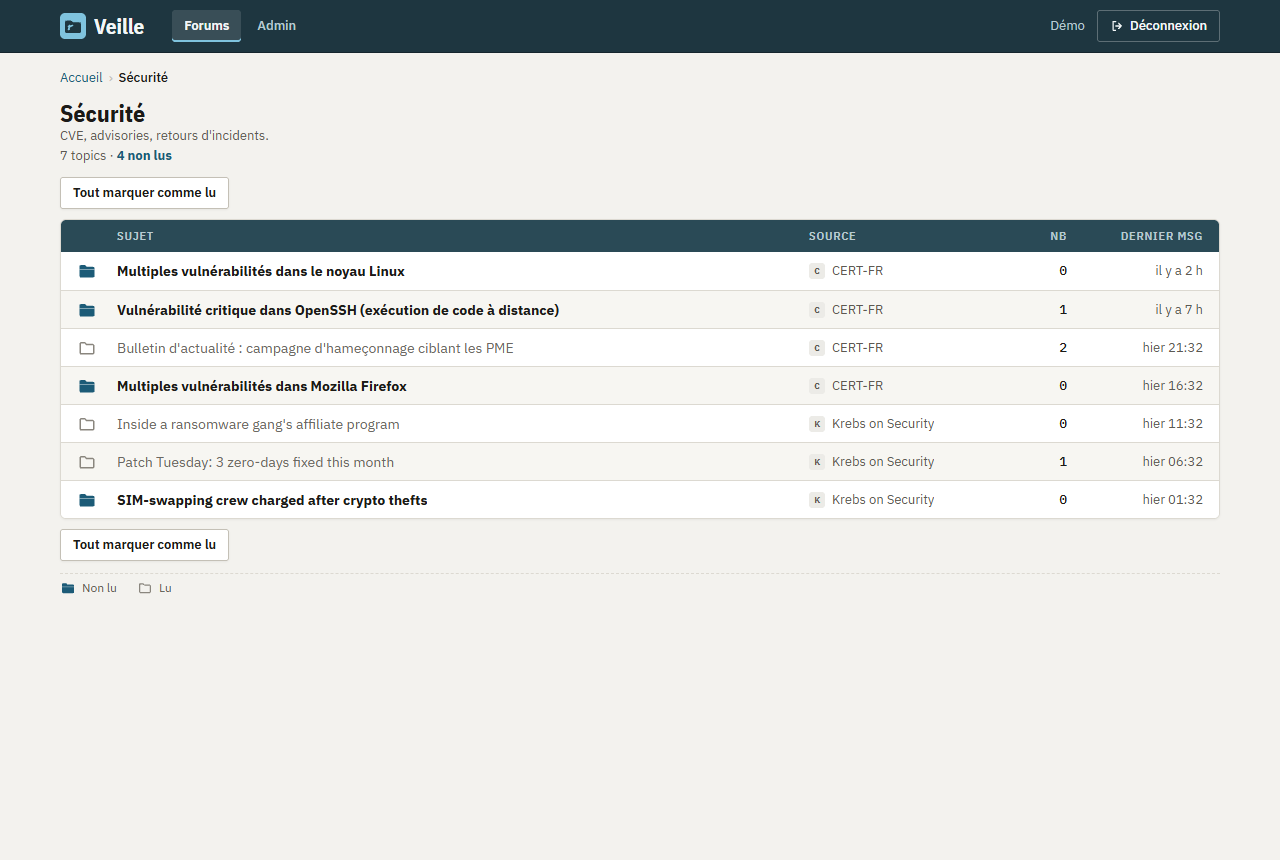
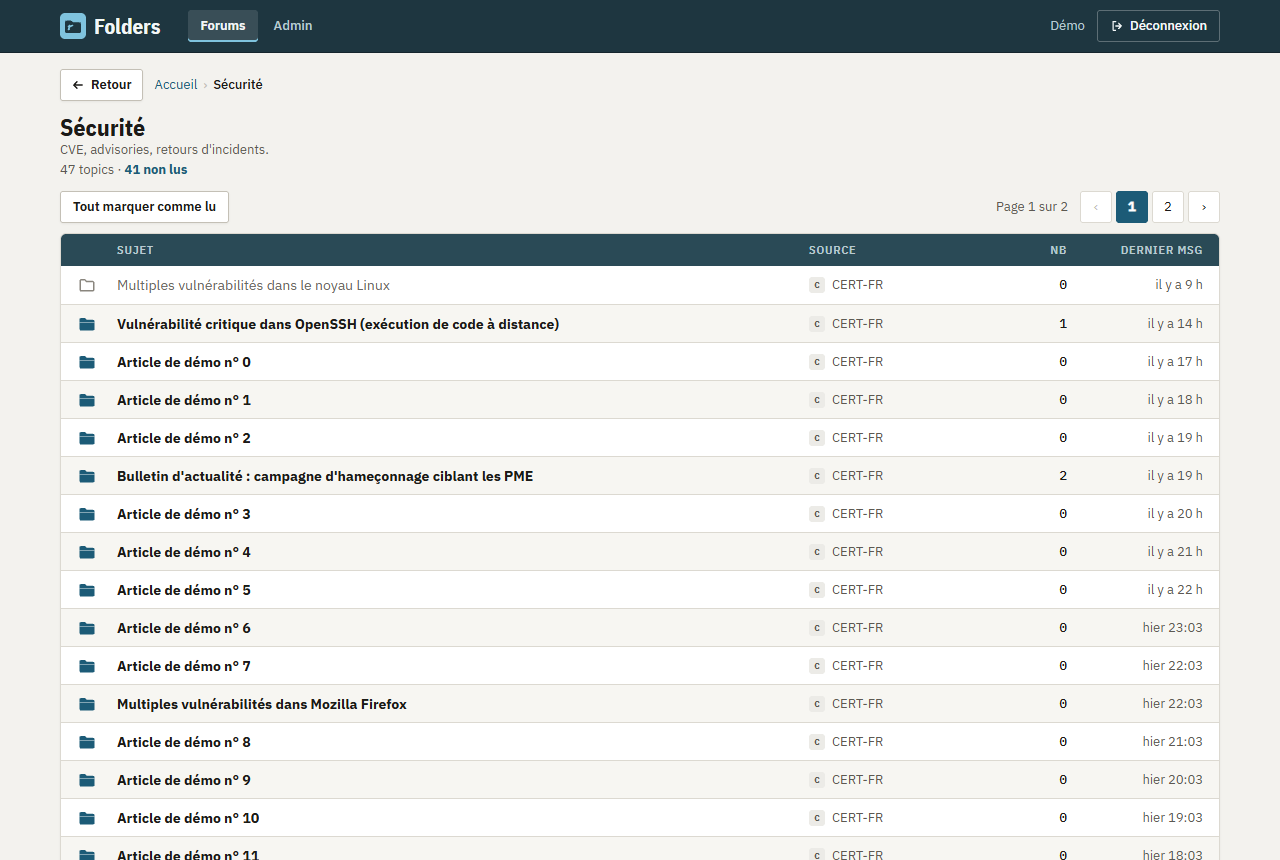
feat: rename the app to Folders (shown name only; project, volumes and domain unchanged)

diff --git a/tests/fetch-source.test.ts b/tests/fetch-source.test.ts
@@ -4,7 +4,7 @@ import { PGlite } from "@electric-sql/pglite";
 import { eq } from "drizzle-orm";
 import { drizzle } from "drizzle-orm/pglite";
 import { migrate } from "drizzle-orm/pglite/migrator";
-import { beforeEach, describe, expect, it } from "vitest";
+import { beforeEach, describe, expect, it, vi } from "vitest";
 import type { Db } from "@/lib/db";
 import * as schema from "@/lib/db/schema";
 import { fetchSource, listDueSources } from "@/lib/feeds/fetch-source";
@@ -88,7 +88,7 @@ describe("fetchSource", () => {
     expect(res).toEqual({ status: "not-modified" });
     expect(sent?.get("if-none-match")).toBe('"v1"');
     expect(sent?.get("if-modified-since")).toBe("Mon, 24 Mar 2025 10:00:00 GMT");
-    expect(sent?.get("user-agent")).toMatch(/VeilleBot/);
+    expect(sent?.get("user-agent")).toMatch(/^FoldersRSS\/1\.0 /);
     expect((await reload(source.id)).etag).toBe('"v1"');
   });
 
@@ -139,5 +139,21 @@ describe("fetchSource", () => {
     const rows = await db.select().from(topics);
     expect(rows).toHaveLength(4);
     expect(rows.every((t) => t.sourceId === null)).toBe(true);
+  });
+});
+
+describe("feed User-Agent", () => {
+  it("defaults to FoldersRSS/1.0 when FETCH_USER_AGENT is unset or empty (docker-compose.yml passes \"\")", async () => {
+    for (const value of [undefined, ""]) {
+      vi.resetModules();
+      vi.stubEnv("FETCH_USER_AGENT", value);
+      const mod = await import("@/lib/feeds/fetch-source");
+      expect(mod.USER_AGENT).toBe(mod.DEFAULT_USER_AGENT);
+      expect(mod.USER_AGENT).toMatch(/^FoldersRSS\/1\.0 /);
+    }
+    vi.resetModules();
+    vi.stubEnv("FETCH_USER_AGENT", "Custom/2");
+    expect((await import("@/lib/feeds/fetch-source")).USER_AGENT).toBe("Custom/2");
+    vi.unstubAllEnvs();
   });
 });

diff --git a/lib/pwa/service-worker.js b/lib/pwa/service-worker.js
@@ -212,7 +212,7 @@ async function savedTopics(cache) {
     if (!isTopic(url) || topics.length >= 50) continue;
     const res = await cache.match(req);
     const title = res && /<title>([^<]*)<\/title>/.exec(await res.text());
-    topics.push({ href: url.pathname + url.search, title: title ? decodeEntities(title[1]).replace(/ · Veille$/, "") : url.pathname });
+    topics.push({ href: url.pathname + url.search, title: title ? decodeEntities(title[1]).replace(/ · (?:Folders|Veille)$/, "") : url.pathname });
   }
   return topics;
 }
@@ -234,7 +234,7 @@ async function offlinePage(cache) {
 <html lang="fr"><head><meta charset="utf-8">
 <meta name="viewport" content="width=device-width, initial-scale=1, viewport-fit=cover">
 <meta name="theme-color" content="${c.bar}">
-<title>Hors ligne · Veille</title>
+<title>Hors ligne · Folders</title>
 <style>
 *{box-sizing:border-box}
 body{margin:0;background:${c.bg};color:${c.text};font:15px/1.5 system-ui,-apple-system,"Segoe UI",sans-serif;padding-bottom:env(safe-area-inset-bottom)}
@@ -248,7 +248,7 @@ a{color:${c.accent}}.muted{color:${c.muted};font-size:14px}
 ul{margin:0;padding:0;list-style:none}li{border-top:1px solid ${c.border}}li:first-child{border-top:0}
 li a{display:block;padding:10px 0;min-height:44px}
 </style></head>
-<body><header><div>${LOGO}<span>Veille</span></div></header>
+<body><header><div>${LOGO}<span>Folders</span></div></header>
 <main>
 <section><h1>Hors ligne</h1>
 <p>Pas de connexion, et cette page n'a pas été enregistrée pour la lecture hors ligne.</p>

diff --git a/tests/service-worker.test.ts b/tests/service-worker.test.ts
@@ -83,7 +83,7 @@ describe("service worker — pages (network-first)", () => {
 
   it("offline with nothing cached: a « Hors ligne » page listing the topics saved for offline reading", async () => {
     sw.network.routes.set("/t/7", () => html("Faille &lt;critique&gt; &amp; correctif · Veille"));
-    sw.network.routes.set("/t/8", () => html("Kubernetes 2.0 · Veille"));
+    sw.network.routes.set("/t/8", () => html("Kubernetes 2.0 · Folders"));
     await sw.navigate("/t/7");
     await sw.navigate("/t/8");
     sw.network.online = false;
@@ -93,9 +93,11 @@ describe("service worker — pages (network-first)", () => {
     const page = await res!.text();
     expect(page).toContain("<h1>Hors ligne</h1>");
     expect(page).toContain('<a class="btn" href="">Réessayer</a>');
-    // Most recent first, titles escaped again, no " · Veille" suffix.
+    // Most recent first, titles escaped again, no " · Folders" suffix (nor " · Veille", saved before the rename).
     expect(page).toMatch(/href="\/t\/8">Kubernetes 2\.0<\/a>.*href="\/t\/7">Faille &lt;critique&gt; &amp; correctif<\/a>/s);
     expect(page).not.toContain("<script");
+    expect(page).toContain("<title>Hors ligne · Folders</title>");
+    expect(page).toContain("<span>Folders</span>");
   });
 
   it("never caches a redirect (expired session → /login), an error or a non-HTML response", async () => {

diff --git a/tests/app-name.test.ts b/tests/app-name.test.ts
@@ -1,0 +1,26 @@
+import { readdirSync, readFileSync, statSync } from "node:fs";
+import path from "node:path";
+import { describe, expect, it } from "vitest";
+
+const ROOT = path.join(import.meta.dirname, "..");
+
+function sources(dir: string): string[] {
+  return readdirSync(dir).flatMap((f) => {
+    const p = path.join(dir, f);
+    return statSync(p).isDirectory() ? sources(p) : /\.(tsx?|js)$/.test(f) ? [p] : [];
+  });
+}
+
+describe("app name « Folders »", () => {
+  // Shown text only: identifiers, cache names, the Compose project and the domain keep "veille".
+  it("no displayed « Veille » left in pages, components, auth (TOTP issuer) or the service worker", () => {
+    const files = [...sources(path.join(ROOT, "app")), ...sources(path.join(ROOT, "components")), ...sources(path.join(ROOT, "lib"))];
+    const shown = /"Veille"|>Veille<|· Veille<|Installe Veille|appName: "Veille"/;
+    const hits = files.filter((f) => shown.test(readFileSync(f, "utf8"))).map((f) => path.relative(ROOT, f));
+    expect(hits).toEqual([]);
+  });
+
+  it("the Compose project name stays veille, so the volumes (and the database) are unchanged", () => {
+    expect(readFileSync(path.join(ROOT, "docker-compose.yml"), "utf8")).toMatch(/^name: veille$/m);
+  });
+});

diff --git a/app/layout.tsx b/app/layout.tsx
@@ -6,13 +6,13 @@ import { plexCondensed, plexMono, plexSans } from "./fonts";
 import "./globals.css";
 
 export const metadata: Metadata = {
-  title: { default: "Veille", template: "%s · Veille" },
+  title: { default: "Folders", template: "%s · Folders" },
   robots: { index: false, follow: false },
-  applicationName: "Veille",
+  applicationName: "Folders",
   // Installed on iOS: the page starts below an opaque status bar ("default"). With
   // "black-translucent" the page went under it, and iOS blurs a band at the top of
   // the screen taller than safe-area-inset-top: the whole header looked washed out.
-  appleWebApp: { capable: true, title: "Veille", statusBarStyle: "default" },
+  appleWebApp: { capable: true, title: "Folders", statusBarStyle: "default" },
   // apple-touch-icon, then PNG, then SVG: see lib/pwa/icons.ts.
   icons: ICONS,
   // Next.js emits the standard mobile-web-app-capable; older iOS versions only read this one.

diff --git a/tests/auth.test.ts b/tests/auth.test.ts
@@ -117,11 +117,11 @@ describe("two-factor authentication (TOTP)", () => {
   async function enableTwoFactor(auth: Auth) {
     const c = client(auth, { "x-forwarded-for": nextIp() });
     expect((await signIn(c)).status).toBe(200);
-    const enabled = await c.post("/two-factor/enable", { password: PASSWORD, issuer: "Veille" });
+    const enabled = await c.post("/two-factor/enable", { password: PASSWORD, issuer: "Folders" });
     expect(enabled.status).toBe(200);
     const totpURI = enabled.data!.totpURI as string;
     const backupCodes = enabled.data!.backupCodes as string[];
-    expect(totpURI).toMatch(/^otpauth:\/\/totp\/Veille:/);
+    expect(totpURI).toMatch(/^otpauth:\/\/totp\/Folders:/);
     expect(backupCodes.length).toBeGreaterThanOrEqual(10);
     // Not active until a first code is verified.
     let [u] = await db.select().from(schema.user).where(eq(schema.user.email, EMAIL));

diff --git a/lib/auth.ts b/lib/auth.ts
@@ -21,7 +21,7 @@ export function parseTrustedProxies(value: string | undefined): string[] {
 export function createAuth(db: Db, env: AuthEnv) {
   const trustedProxies = parseTrustedProxies(env.trustedProxies);
   return betterAuth({
-    appName: "Veille",
+    appName: "Folders",
     baseURL: env.baseURL,
     secret: env.secret,
     database: drizzleAdapter(db, {
@@ -61,7 +61,7 @@ export function createAuth(db: Db, env: AuthEnv) {
     },
     plugins: [
       twoFactor({
-        issuer: "Veille",
+        issuer: "Folders",
         // Login with 2FA: the second step must happen within 10 minutes.
         twoFactorCookieMaxAge: 10 * 60,
       }),

diff --git a/lib/feeds/fetch-source.ts b/lib/feeds/fetch-source.ts
@@ -14,8 +14,9 @@ export const MAX_FEED_BYTES = 10 * 1024 * 1024;
  * reading mode then extracts the page itself instead.
  */
 export const MIN_FEED_ARTICLE_TEXT = 500;
-export const USER_AGENT =
-  process.env.FETCH_USER_AGENT ?? "VeilleBot/1.0 (+self-hosted personal feed reader)";
+// `||`, not `??`: docker-compose.yml passes FETCH_USER_AGENT="" when it is not set.
+export const DEFAULT_USER_AGENT = "FoldersRSS/1.0 (+self-hosted personal feed reader)";
+export const USER_AGENT = process.env.FETCH_USER_AGENT || DEFAULT_USER_AGENT;
 
 export type FetchResult =
   | { status: "ok"; inserted: number; firstImport: boolean }

diff --git a/tests/pwa-manifest.test.ts b/tests/pwa-manifest.test.ts
@@ -16,8 +16,8 @@ function pngSize(file: string): [number, number] {
 describe("web app manifest", () => {
   const m = manifest();
 
-  it("makes an installable standalone app named Veille, starting at /", () => {
-    expect(m).toMatchObject({ name: "Veille", short_name: "Veille", display: "standalone", start_url: "/", scope: "/", id: "/" });
+  it("makes an installable standalone app named Folders, starting at /", () => {
+    expect(m).toMatchObject({ name: "Folders", short_name: "Folders", display: "standalone", start_url: "/", scope: "/", id: "/" });
   });
 
   it("takes its colors from the design tokens", () => {

diff --git a/components/account/two-factor-panel.tsx b/components/account/two-factor-panel.tsx
@@ -54,7 +54,7 @@ export function TwoFactorPanel({ enabled }: { enabled: boolean }) {
     setError(null);
     startTransition(async () => {
       if (action === "enable") {
-        const { data, error } = await authClient.twoFactor.enable({ password, issuer: "Veille" });
+        const { data, error } = await authClient.twoFactor.enable({ password, issuer: "Folders" });
         if (error || !data || !("totpURI" in data)) return setError(errorText(error ?? { status: 500 }));
         setMode({ kind: "scan", totpURI: data.totpURI, backupCodes: data.backupCodes });
       } else if (action === "disable") {

diff --git a/components/layout/app-header.tsx b/components/layout/app-header.tsx
@@ -93,7 +93,7 @@ export function AppHeader({ userName }: { userName: string }) {
       <div className="mx-auto flex min-h-13 max-w-[1200px] items-center gap-7 px-3.5 md:px-5">
         <Link href="/" className="flex items-center gap-2 text-bar-fg no-underline hover:text-bar-fg">
           <Logo />
-          <span className="font-cond text-[21px] leading-none font-bold">Veille</span>
+          <span className="font-cond text-[21px] leading-none font-bold">Folders</span>
         </Link>
 
         <nav aria-label="Navigation principale" className="hidden flex-1 items-center gap-1 md:flex">

diff --git a/components/pwa/install-banner.tsx b/components/pwa/install-banner.tsx
@@ -58,7 +58,7 @@ export function InstallBanner() {
       </span>
       {mode === "prompt" ? (
         <>
-          <p className="min-w-0 flex-1">Installe Veille pour l&apos;ouvrir comme une app, en plein écran.</p>
+          <p className="min-w-0 flex-1">Installe Folders pour l&apos;ouvrir comme une app, en plein écran.</p>
           <button type="button" className={buttonClass("primary", "sm")} onClick={() => void promptInstall()}>
             Installer l&apos;app
           </button>
